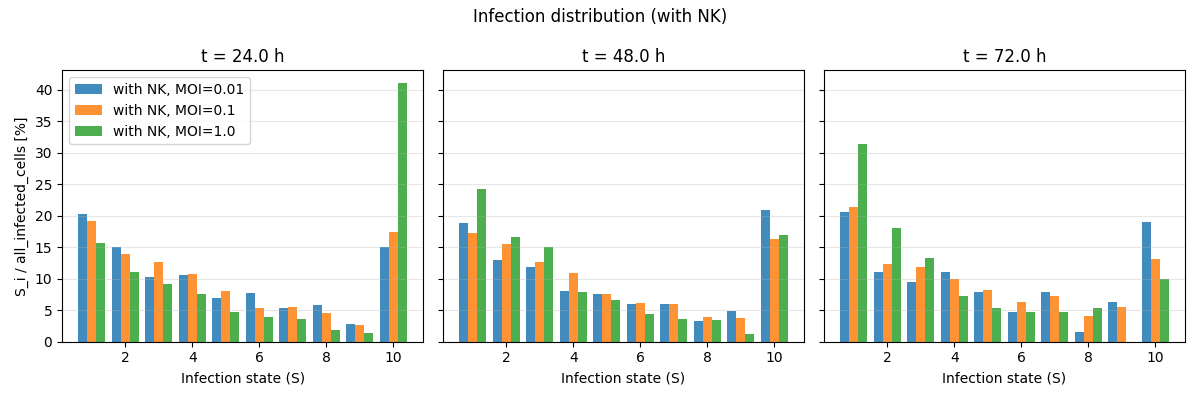
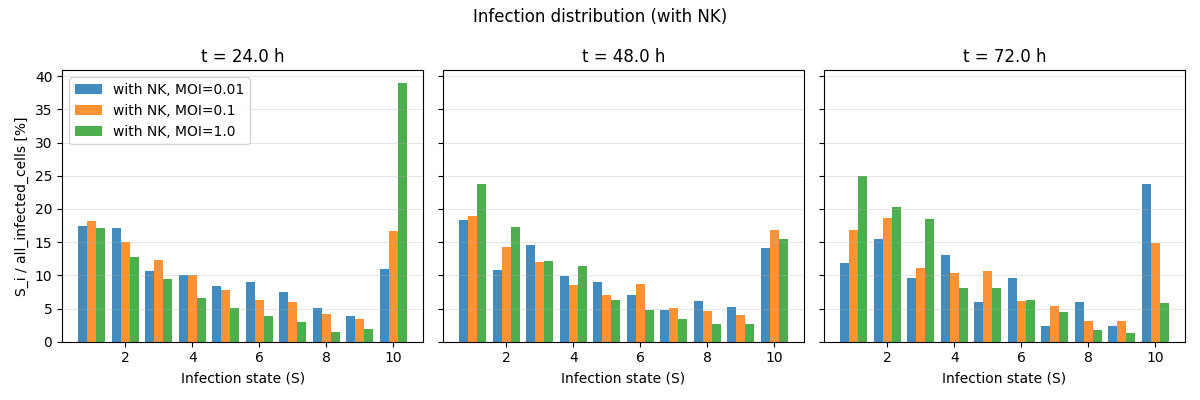
bugs fixed

diff --git a/Epithelial cells with NK agents/cell_state_histogram.py b/Epithelial cells with NK agents/cell_state_histogram.py
@@ -18,39 +18,64 @@ for path in sorted(glob.glob("plot results/*npz")):
     }
 
 
+with_nk = {k: v for k, v in results.items() if k.startswith("with NK")}
+without_nk = {k: v for k, v in results.items() if k.startswith("without NK")}
+
+def moi_key(label):
+    return float(label.split("MOI=")[1])
+
+moi_labels_nk = sorted(with_nk.keys(), key = moi_key)
+moi_labels_no_nk = sorted(without_nk.keys(), key = moi_key)
+moi_values = [moi_key(l) for l in moi_labels_nk]
+n_moi = len(moi_values)
+
+
 PLOT_TIMES = [24.0, 48.0, 72.0]
-bins = np.arange(1, 11)
-labels = list(results.keys())
-print(labels)
-n_moi = len(labels)
+cell_types = ["healthy", "infected", "dead"]
+cell_colors = {"healthy": "tab:green", "infected": "tab:orange", "dead": "tab:red"}
 
 fig, axes = plt.subplots(nrows = 1, ncols = len(PLOT_TIMES), sharey = "row", figsize = (4 * len(PLOT_TIMES), 4))
 
-cell_types = ["healthy", "infected", "dead"]
+n_pairs = len(cell_types)
+pair_gap = 0.05
+bar_width = (0.8 - pair_gap * (n_pairs - 1)) / (n_pairs * 2)
+pair_centers = np.linspace(-(0.8 / 2) + bar_width, (0.8 / 2) - bar_width, n_pairs)
+
 x = np.arange(n_moi)
-width = 0.8 / (n_moi * 3)
-offsets = np.linspace(-0.4 + width/2, 0.4 - width/2, len(cell_types))
 
 for col, t_target in enumerate(PLOT_TIMES):
     ax = axes[col]
-    for offset, cell_type in zip(offsets, cell_types):
-        vals = []
-        for label in labels:
-            r = results[label]
-            idx = np.argmin(np.abs(r["times"] - t_target))
-            vals.append(r[cell_type][idx])
+    for pi, cell_type in enumerate(cell_types):
+        center = pair_centers[pi]
+        color = cell_colors[cell_type]
 
-        ax.bar(x + offset, vals, width=width, label=cell_type, alpha=0.85)
+        vals_no_nk = []
+        for label in moi_labels_no_nk:
+            r = without_nk[label]
+            idx = np.argmin(np.abs(r["times"] - t_target))
+            vals_no_nk.append(r[cell_type][idx])
+
+        vals_nk = []
+        for label in moi_labels_nk:
+            r = with_nk[label]
+            idx = np.argmin(np.abs(r["times"] - t_target))
+            vals_nk.append(r[cell_type][idx])
+
+        ax.bar(x + center - bar_width /2, vals_no_nk, width = bar_width, color = color, alpha = 0.45, label = f"{cell_type} - without NK" if col == 0 else "_nolegend_")
+        ax.bar(x + center + bar_width /2, vals_nk, width = bar_width, color = color, alpha = 0.85, label = f"{cell_type} - with NK" if col == 0 else "_nolegend_")
+
 
     ax.set_xticks(x)
-    ax.set_xticklabels([l.split("MOI=")[1] for l in labels])
+    ax.set_xticklabels([str(m) for m in moi_values])
     ax.set(xlabel="MOI", title=f"t = {t_target} h")
     ax.grid(axis="y", alpha=0.3)
 
 axes[0].set_ylabel("Number of cells")
-axes[0].legend(fontsize=8)
+axes[0].legend(fontsize=8, ncol = 2)
 
-plt.suptitle("Cell counts by time point (without NK)")
+NK_ratio = 0.25
+
+plt.suptitle(f"Cell counts by time point (with and without NK), NK:epithelial cells ratio: {NK_ratio}")
 plt.tight_layout()
-plt.savefig("cell_count_without_NK.png")
+plt.savefig(f"cell_counts_NK_ratio_{NK_ratio}.png")
 plt.show()

diff --git a/Epithelial cells with NK agents/run_with_different_params.py b/Epithelial cells with NK agents/run_with_different_params.py
@@ -2,11 +2,11 @@ import numpy as np
 import os
 from nk_epith_model import run_with_params
 
-BASE_params = dict(time_max = 72.0, time_delay = 80.0, max_steps = 1000000, ani_step_save = 250,
+BASE_params = dict(time_max = 72.0, time_delay = 400.0, max_steps = 1000000, ani_step_save = 250,
                    grid_size = 100, max_NK = 3, a = 1.0, b = 3.0, max_inf_state = 10,
-                   t_prog = 1.0, beta_spread = 1.0, t_spread = 50.0, M_I = 7,
+                   t_prog = 1.0, beta_spread = 1.0, t_spread = 50.0, M_I = 4,
                    gamma_ind = 1.0, t_ind = 300.0, gamma_dep = 3.0, t_dep = 100.0,
-                   MOI = 0.1, NK_ratio = 1.0)
+                   MOI = 0.1, NK_ratio = 3.0)
 
 
 #parameter to change:
@@ -20,11 +20,14 @@ for i, v in enumerate(PARAM_VALUES):
     params = BASE_params.copy()
     params[PARAM_NAME] = v
 
-    out_path = f"results/without NK, {PARAM_NAME}={v}.npz"
+    if params["time_delay"] > params["time_max"]: #no nk
+        out_path = f"plot results/without NK, {PARAM_NAME}={v}.npz"
+    else:
+        out_path = f"plot results/with NK, {PARAM_NAME}={v}.npz"
 
-    if os.path.exists(out_path):
+    """if os.path.exists(out_path):
         print(f"[{i+1}/{len(PARAM_VALUES)}]; skipped (previously done): {PARAM_NAME}={v}")
-        continue
+        continue"""
 
     print(f"[{i+1}/{len(PARAM_VALUES)}]; starting: {PARAM_NAME}={v}")
     result = run_with_params(params)

diff --git a/Epithelial cells with NK agents/nk_epith_model.py b/Epithelial cells with NK agents/nk_epith_model.py
@@ -166,9 +166,10 @@ def select_event(matrix, rand_val):
 def run_simulation(time_max, time_delay, max_steps, ani_step_save, grid_size,
                    max_NK, a, b, max_inf_state, t_prog, beta_spread, t_spread, M_I,
                    gamma_ind, t_ind, gamma_dep, t_dep,
-                   epith_grid, NK_grid):
+                   epith_grid, NK_grid_initial, NK_grid_delayed):
     
     #preparing grids
+    NK_grid = NK_grid_initial
     epith_is_alive = np.full((grid_size, grid_size), True, dtype = np.bool_)
     NK_move_m = np.zeros((grid_size, grid_size), dtype = np.float64)
     inf_evol_m = np.zeros((grid_size, grid_size), dtype = np.float64)
@@ -265,6 +266,7 @@ def run_simulation(time_max, time_delay, max_steps, ani_step_save, grid_size,
 
         #introducing NK cells
         if not NK_introduced and time >= time_delay:
+            NK_grid = NK_grid_delayed
             for r in range(grid_size):
                 for c in range(grid_size):
                     _update_NK(r, c)
@@ -411,14 +413,15 @@ def run_simulation(time_max, time_delay, max_steps, ani_step_save, grid_size,
 def run_with_params(p: dict):
     "run simulation with p as parameters dictionary"
     epith_grid = init_epith_grid(p["MOI"], p["grid_size"])
-    NK_grid = init_NK_grid(p["NK_ratio"], p["max_NK"], p["grid_size"])
+    NK_grid_initial = np.zeros((p["grid_size"], p["grid_size"]), dtype=np.int64)
+    NK_grid_delayed = init_NK_grid(p["NK_ratio"], p["max_NK"], p["grid_size"])
 
     frames_NK, frames_epith, stats_array, total_time, total_steps = run_simulation(p["time_max"], p["time_delay"], 
                                                                     p["max_steps"], p["ani_step_save"], p["grid_size"],
                                                                     p["max_NK"], p["a"], p["b"], p["max_inf_state"],
                                                                     p["t_prog"], p["beta_spread"], p["t_spread"], p["M_I"],
                                                                     p["gamma_ind"], p["t_ind"], p["gamma_dep"], p["t_dep"],
-                                                                    epith_grid, NK_grid)
+                                                                    epith_grid, NK_grid_initial, NK_grid_delayed)
 
     return {"stats_array" : stats_array,
             "total_time": total_time,

diff --git a/Epithelial cells with NK agents/death(t)_plot.py b/Epithelial cells with NK agents/death(t)_plot.py
@@ -18,16 +18,18 @@ for path in sorted(glob.glob("plot results/*npz")):
     }
     
 
+NK_ratio = 3.0
 
-plot_title = f"M_I = 7"
+plot_title = f"NK_epithelial ratio = {NK_ratio}"
 
 fig, ax = plt.subplots()
 for label, r in results.items():
     ax.plot(r["times"], r["dead"], label = label)
 
+
 ax.set(xlabel = "Time [h]", ylabel = "Dead cells", title = plot_title)
 ax.legend()
 ax.grid(alpha = 0.3)
 plt.tight_layout()
-plt.savefig("M_I=7.png")
+plt.savefig(f"death(t)_NK_ratio={NK_ratio}.png")
 plt.show()

diff --git a/Epithelial cells with NK agents/infection_distribution_histogram.py b/Epithelial cells with NK agents/infection_distribution_histogram.py
@@ -39,9 +39,11 @@ for ax, t_target in zip(axes, PLOT_TIMES):
     ax.set(xlabel="Infection state (S)", title=f"t = {t_target} h")
     ax.grid(axis="y", alpha=0.3)
 
+M_I = 0
+
 axes[0].set_ylabel("S_i / all_infected_cells [%]")
 axes[0].legend()
-plt.suptitle("Infection distribution (without NK), M_I = 7")
+plt.suptitle(f"Infection distribution (without NK), M_I = {M_I}")
 plt.tight_layout()
-plt.savefig("without_NK_percent_inf_distr_hist.png")
+plt.savefig(f"without_NK_inf_dist_M_I={M_I}.png")
 plt.show()